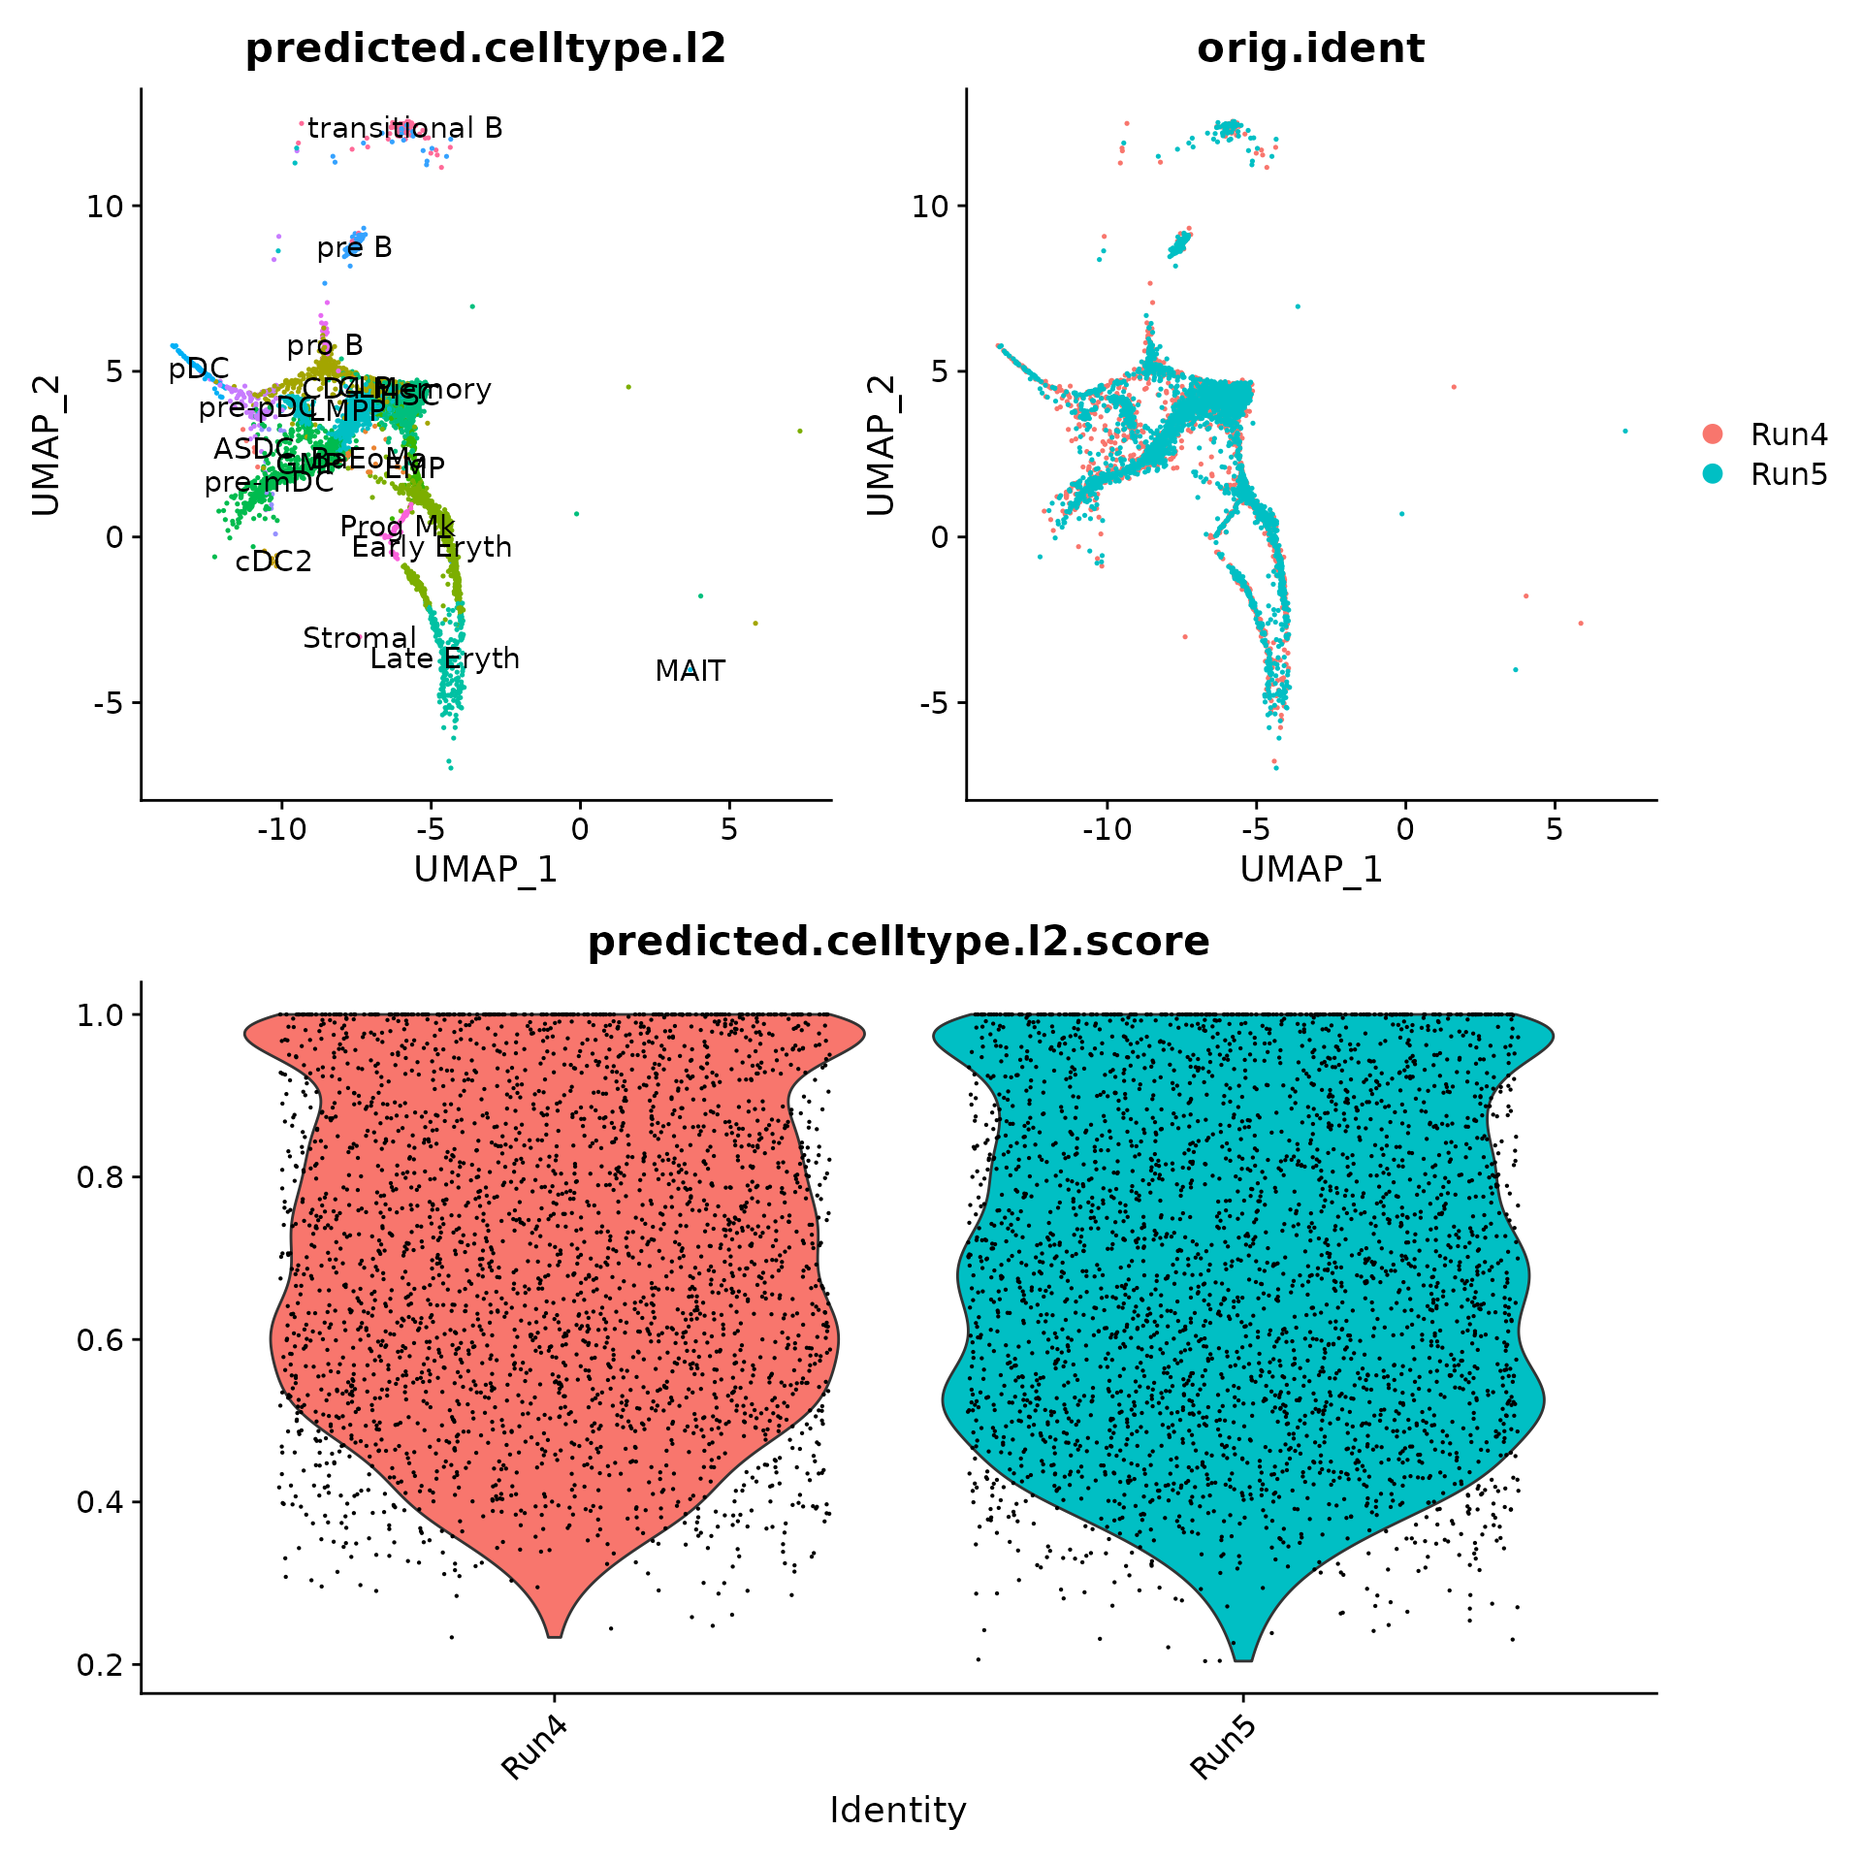
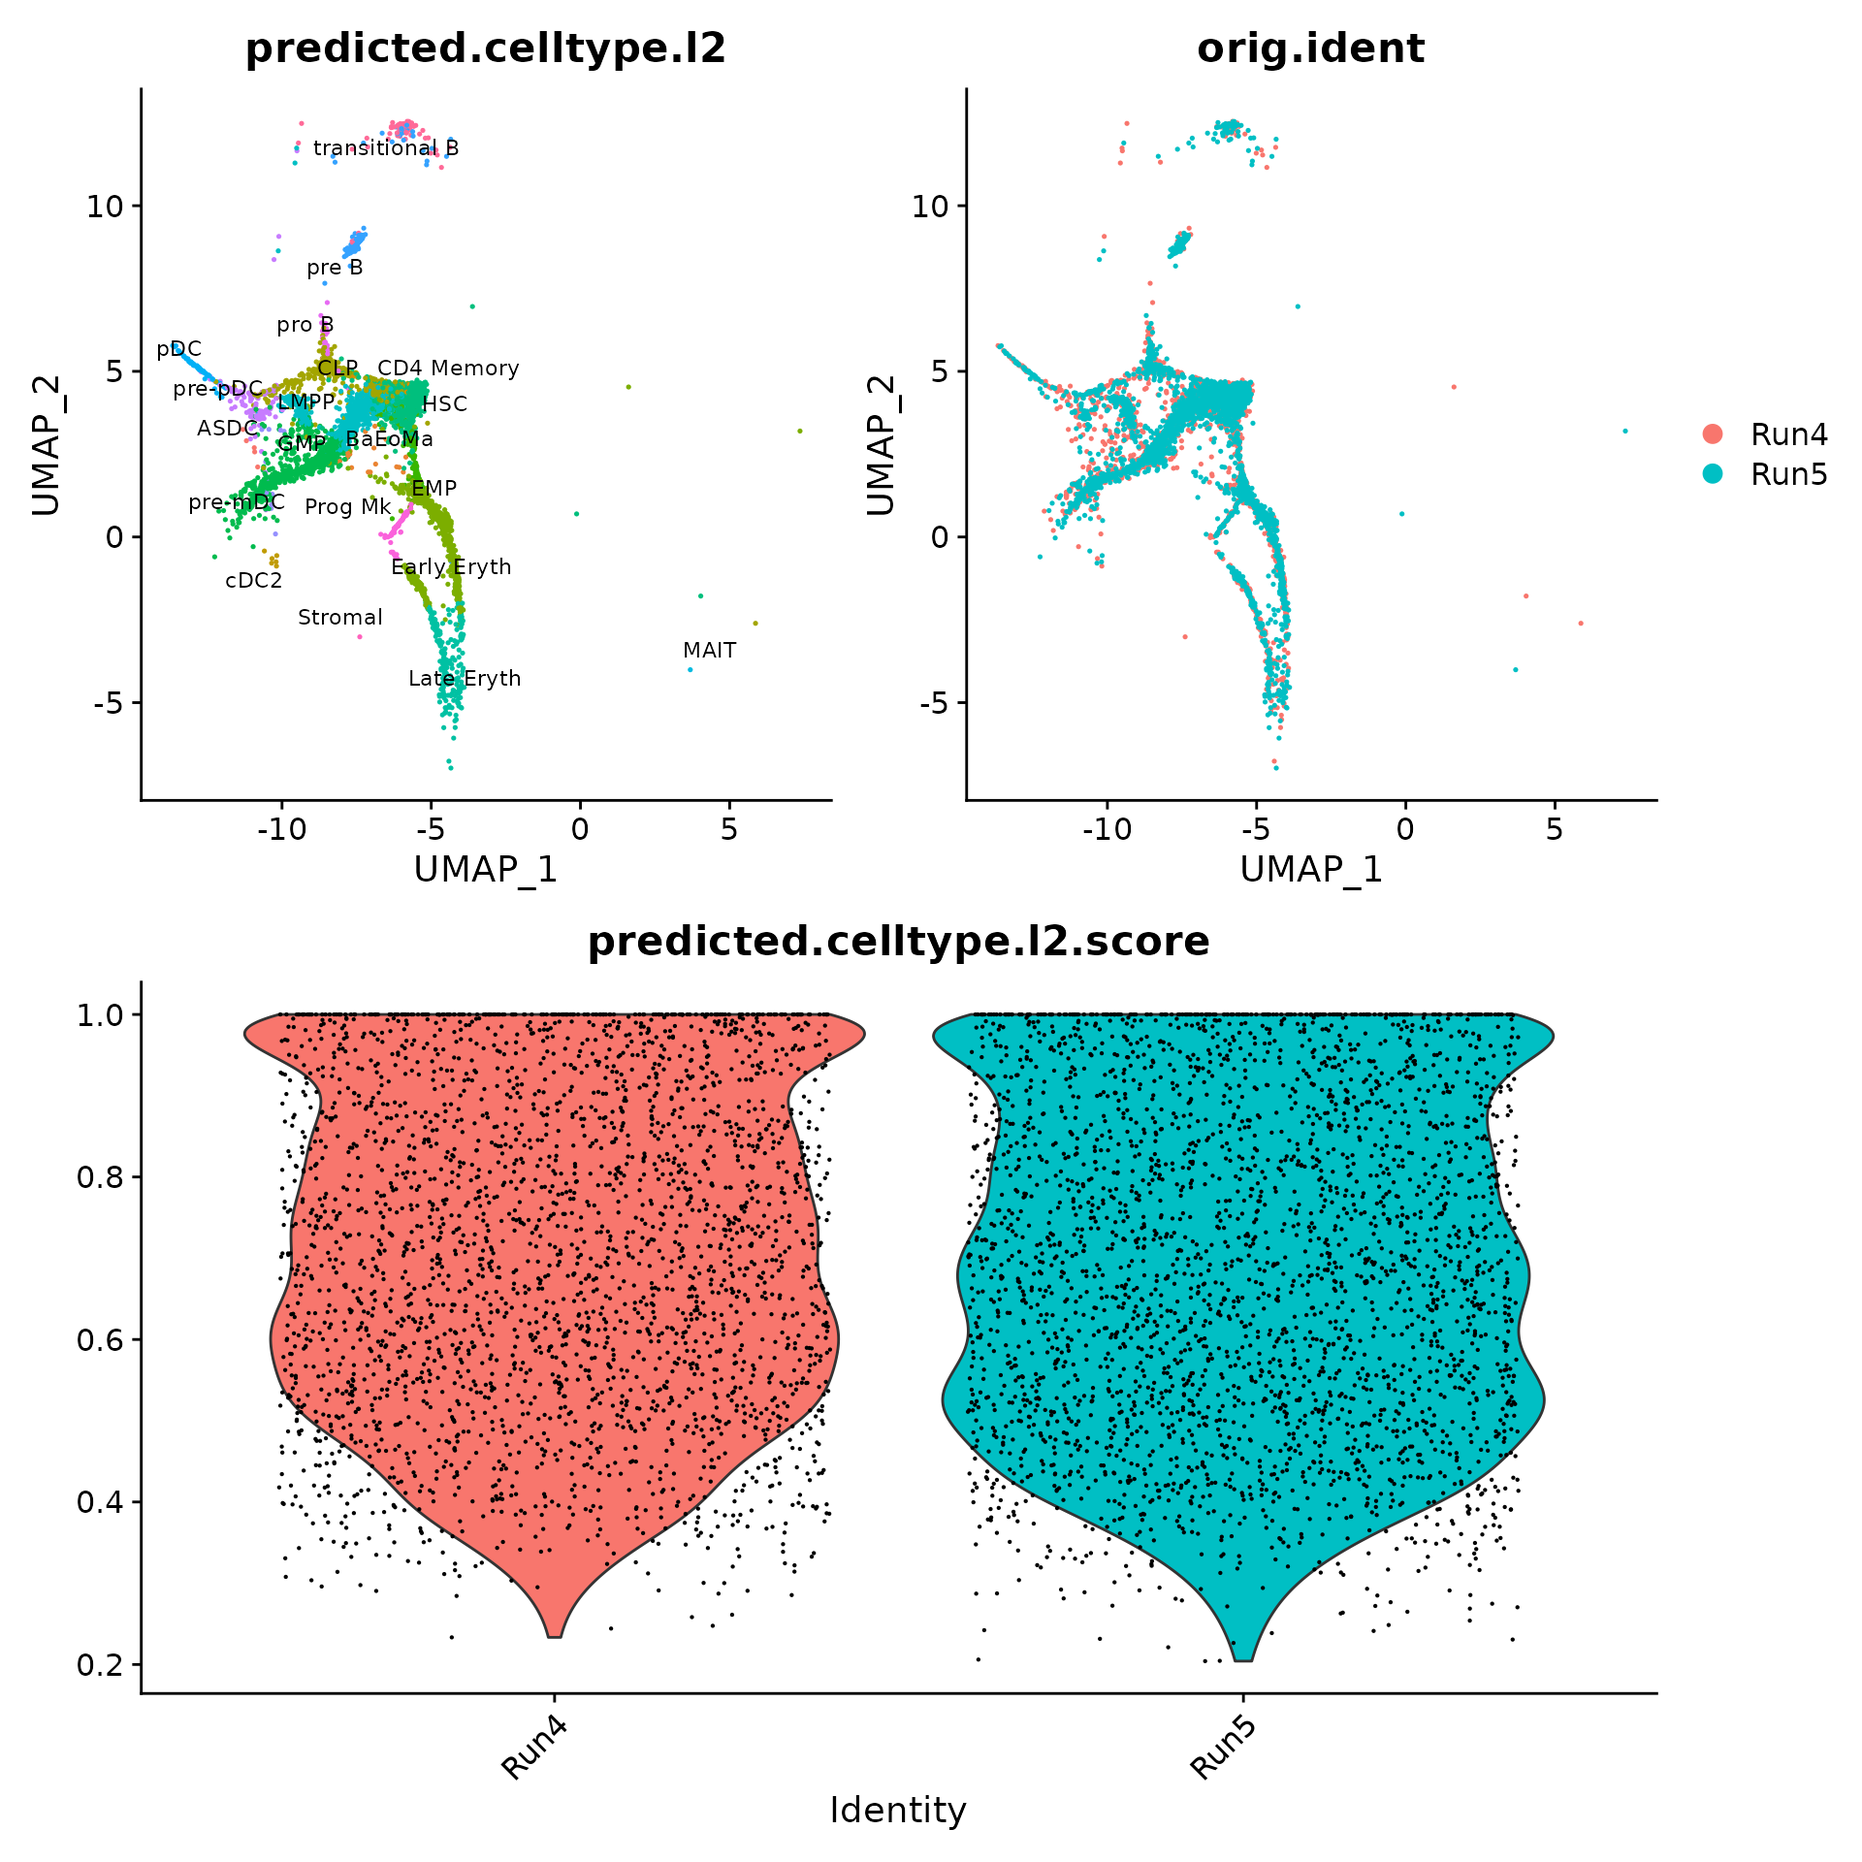
update run azimuth tutorial

Changed region(s): [[0.0938, 0.125, 0.2812, 0.375], [0.1562, 0.0625, 0.25, 0.0938], [0.3438, 0.3438, 0.4062, 0.375]]

diff --git a/docs/articles/run_azimuth_tutorial.html b/docs/articles/run_azimuth_tutorial.html
@@ -33,7 +33,7 @@
       </button>
       <span class="navbar-brand">
         <a class="navbar-link" href="../index.html">Azimuth</a>
-        <span class="version label label-default" data-toggle="tooltip" data-placement="bottom" title="">0.4.5</span>
+        <span class="version label label-default" data-toggle="tooltip" data-placement="bottom" title="">0.4.5.9000</span>
       </span>
     </div>
 
@@ -80,7 +80,7 @@
     <div class="page-header toc-ignore">
       <h1 data-toc-skip>Azimuth annotation</h1>
             
-            <h4 data-toc-skip class="date">Compiled: May 01, 2022</h4>
+            <h4 data-toc-skip class="date">Compiled: May 10, 2022</h4>
       
       <small class="dont-index">Source: <a href="https://github.com/satijalab/azimuth/blob/HEAD/vignettes/run_azimuth_tutorial.Rmd" class="external-link"><code>vignettes/run_azimuth_tutorial.Rmd</code></a></small>
       <div class="hidden name"><code>run_azimuth_tutorial.Rmd</code></div>
@@ -187,7 +187,8 @@
 <code class="sourceCode R"><span class="va">bm</span> <span class="op">&lt;-</span> <span class="fu"><a href="../reference/RunAzimuth.html">RunAzimuth</a></span><span class="op">(</span>query <span class="op">=</span> <span class="st">"human_cd34_bone_marrow.h5ad"</span>, reference <span class="op">=</span> <span class="st">"bonemarrowref"</span><span class="op">)</span></code></pre></div>
 <p>As expected, query cells map to CD34+ celltypes which represent a subset of celltypes present in the reference. Rare cells that map to differentiated cell populations (i.e. CD4 memory), map with low prediction scores. Reference-mapping also harmonizes two separate runs.</p>
 <div class="sourceCode" id="cb10"><pre class="downlit sourceCode r">
-<code class="sourceCode R"><span class="va">p1</span> <span class="op">&lt;-</span> <span class="fu"><a href="https://satijalab.org/seurat/reference/DimPlot.html" class="external-link">DimPlot</a></span><span class="op">(</span><span class="va">bm</span>, group.by <span class="op">=</span> <span class="st">"predicted.celltype.l2"</span>, label <span class="op">=</span> <span class="cn">TRUE</span><span class="op">)</span> <span class="op">+</span> <span class="fu"><a href="https://satijalab.org/seurat/reference/SeuratTheme.html" class="external-link">NoLegend</a></span><span class="op">(</span><span class="op">)</span>
+<code class="sourceCode R"><span class="va">p1</span> <span class="op">&lt;-</span> <span class="fu"><a href="https://satijalab.org/seurat/reference/DimPlot.html" class="external-link">DimPlot</a></span><span class="op">(</span><span class="va">bm</span>, group.by <span class="op">=</span> <span class="st">"predicted.celltype.l2"</span>, label <span class="op">=</span> <span class="cn">TRUE</span>, label.size <span class="op">=</span> <span class="fl">3</span>, repel <span class="op">=</span> <span class="cn">TRUE</span><span class="op">)</span> <span class="op">+</span>
+    <span class="fu"><a href="https://satijalab.org/seurat/reference/SeuratTheme.html" class="external-link">NoLegend</a></span><span class="op">(</span><span class="op">)</span>
 <span class="va">p2</span> <span class="op">&lt;-</span> <span class="fu"><a href="https://satijalab.org/seurat/reference/DimPlot.html" class="external-link">DimPlot</a></span><span class="op">(</span><span class="va">bm</span>, group.by <span class="op">=</span> <span class="st">"orig.ident"</span><span class="op">)</span>
 <span class="fu"><a href="https://rdrr.io/r/base/sort.html" class="external-link">sort</a></span><span class="op">(</span><span class="fu"><a href="https://rdrr.io/r/base/table.html" class="external-link">table</a></span><span class="op">(</span><span class="va">bm</span><span class="op">$</span><span class="va">predicted.celltype.l2</span><span class="op">)</span>, decreasing <span class="op">=</span> <span class="cn">TRUE</span><span class="op">)</span></code></pre></div>
 <pre><code><span class="co">## </span>
@@ -237,56 +238,58 @@
 <span class="co">##  [5] lungref.SeuratData_1.0.0       kidneyref.SeuratData_1.0.0    </span>
 <span class="co">##  [7] bonemarrowref.SeuratData_1.0.0 SeuratData_0.2.2              </span>
 <span class="co">##  [9] Azimuth_0.4.5                  shinyBS_0.61.1                </span>
-<span class="co">## [11] SeuratObject_4.0.4             Seurat_4.1.0                  </span>
+<span class="co">## [11] sp_1.4-7                       SeuratObject_4.1.0            </span>
+<span class="co">## [13] Seurat_4.1.1                  </span>
 <span class="co">## </span>
 <span class="co">## loaded via a namespace (and not attached):</span>
 <span class="co">##   [1] systemfonts_1.0.4     plyr_1.8.7            igraph_1.3.1         </span>
 <span class="co">##   [4] lazyeval_0.2.2        shinydashboard_0.7.2  splines_4.1.3        </span>
-<span class="co">##   [7] listenv_0.8.0         scattermore_0.8       ggplot2_3.3.5        </span>
+<span class="co">##   [7] listenv_0.8.0         scattermore_0.8       ggplot2_3.3.6        </span>
 <span class="co">##  [10] digest_0.6.29         htmltools_0.5.2       fansi_1.0.3          </span>
 <span class="co">##  [13] magrittr_2.0.3        memoise_2.0.1         googlesheets4_1.0.0  </span>
 <span class="co">##  [16] tensor_1.5            cluster_2.1.3         ROCR_1.0-11          </span>
-<span class="co">##  [19] globals_0.14.0        matrixStats_0.62.0    pkgdown_2.0.3        </span>
+<span class="co">##  [19] globals_0.15.0        matrixStats_0.62.0    pkgdown_2.0.3        </span>
 <span class="co">##  [22] spatstat.sparse_2.1-1 colorspace_2.0-3      rappdirs_0.3.3       </span>
 <span class="co">##  [25] ggrepel_0.9.1         textshaping_0.3.6     xfun_0.30            </span>
-<span class="co">##  [28] dplyr_1.0.8           crayon_1.5.1          jsonlite_1.8.0       </span>
-<span class="co">##  [31] spatstat.data_2.2-0   survival_3.3-1        zoo_1.8-10           </span>
-<span class="co">##  [34] glue_1.6.2            polyclip_1.10-0       gargle_1.2.0         </span>
-<span class="co">##  [37] gtable_0.3.0          leiden_0.3.9          future.apply_1.8.1   </span>
-<span class="co">##  [40] abind_1.4-5           scales_1.2.0          DBI_1.1.2            </span>
-<span class="co">##  [43] spatstat.random_2.2-0 miniUI_0.1.1.1        Rcpp_1.0.8.3         </span>
-<span class="co">##  [46] viridisLite_0.4.0     xtable_1.8-4          reticulate_1.24      </span>
-<span class="co">##  [49] spatstat.core_2.4-2   bit_4.0.4             DT_0.22              </span>
-<span class="co">##  [52] htmlwidgets_1.5.4     httr_1.4.2            RColorBrewer_1.1-3   </span>
-<span class="co">##  [55] ellipsis_0.3.2        ica_1.0-2             farver_2.1.0         </span>
-<span class="co">##  [58] pkgconfig_2.0.3       sass_0.4.1            uwot_0.1.11          </span>
-<span class="co">##  [61] deldir_1.0-6          utf8_1.2.2            labeling_0.4.2       </span>
-<span class="co">##  [64] tidyselect_1.1.2      rlang_1.0.2           reshape2_1.4.4       </span>
-<span class="co">##  [67] later_1.3.0           cellranger_1.1.0      munsell_0.5.0        </span>
-<span class="co">##  [70] tools_4.1.3           cachem_1.0.6          cli_3.3.0            </span>
-<span class="co">##  [73] generics_0.1.2        ggridges_0.5.3        evaluate_0.15        </span>
-<span class="co">##  [76] stringr_1.4.0         fastmap_1.1.0         yaml_2.3.5           </span>
-<span class="co">##  [79] ragg_1.2.2            goftest_1.2-3         bit64_4.0.5          </span>
-<span class="co">##  [82] knitr_1.38            fs_1.5.2              fitdistrplus_1.1-8   </span>
-<span class="co">##  [85] purrr_0.3.4           RANN_2.6.1            pbapply_1.5-0        </span>
-<span class="co">##  [88] future_1.25.0         nlme_3.1-157          mime_0.12            </span>
-<span class="co">##  [91] formatR_1.12          hdf5r_1.3.5           compiler_4.1.3       </span>
-<span class="co">##  [94] rstudioapi_0.13       curl_4.3.2            plotly_4.10.0        </span>
-<span class="co">##  [97] png_0.1-7             spatstat.utils_2.3-0  tibble_3.1.6         </span>
-<span class="co">## [100] bslib_0.3.1           stringi_1.7.6         highr_0.9            </span>
-<span class="co">## [103] desc_1.4.1            lattice_0.20-45       Matrix_1.4-1         </span>
-<span class="co">## [106] SeuratDisk_0.0.0.9020 shinyjs_2.1.0         vctrs_0.4.1          </span>
-<span class="co">## [109] pillar_1.7.0          lifecycle_1.0.1       BiocManager_1.30.16  </span>
-<span class="co">## [112] spatstat.geom_2.4-0   lmtest_0.9-40         jquerylib_0.1.4      </span>
-<span class="co">## [115] RcppAnnoy_0.0.19      data.table_1.14.2     cowplot_1.1.1        </span>
-<span class="co">## [118] irlba_2.3.5           httpuv_1.6.5          R6_2.5.1             </span>
-<span class="co">## [121] promises_1.2.0.1      renv_0.15.4           KernSmooth_2.23-20   </span>
-<span class="co">## [124] gridExtra_2.3         parallelly_1.31.1     codetools_0.2-18     </span>
-<span class="co">## [127] MASS_7.3-56           assertthat_0.2.1      rprojroot_2.0.3      </span>
-<span class="co">## [130] withr_2.5.0           presto_1.0.0          sctransform_0.3.3    </span>
-<span class="co">## [133] mgcv_1.8-40           parallel_4.1.3        grid_4.1.3           </span>
-<span class="co">## [136] rpart_4.1.16          tidyr_1.2.0           rmarkdown_2.13       </span>
-<span class="co">## [139] googledrive_2.0.0     Rtsne_0.16            shiny_1.7.1</span></code></pre>
+<span class="co">##  [28] dplyr_1.0.9           crayon_1.5.1          jsonlite_1.8.0       </span>
+<span class="co">##  [31] progressr_0.10.0      spatstat.data_2.2-0   survival_3.3-1       </span>
+<span class="co">##  [34] zoo_1.8-10            glue_1.6.2            polyclip_1.10-0      </span>
+<span class="co">##  [37] gargle_1.2.0          gtable_0.3.0          leiden_0.4.2         </span>
+<span class="co">##  [40] future.apply_1.9.0    abind_1.4-5           scales_1.2.0         </span>
+<span class="co">##  [43] DBI_1.1.2             spatstat.random_2.2-0 miniUI_0.1.1.1       </span>
+<span class="co">##  [46] Rcpp_1.0.8.3          viridisLite_0.4.0     xtable_1.8-4         </span>
+<span class="co">##  [49] reticulate_1.24       spatstat.core_2.4-2   bit_4.0.4            </span>
+<span class="co">##  [52] DT_0.23               htmlwidgets_1.5.4     httr_1.4.3           </span>
+<span class="co">##  [55] RColorBrewer_1.1-3    ellipsis_0.3.2        ica_1.0-2            </span>
+<span class="co">##  [58] farver_2.1.0          pkgconfig_2.0.3       sass_0.4.1           </span>
+<span class="co">##  [61] uwot_0.1.11           deldir_1.0-6          utf8_1.2.2           </span>
+<span class="co">##  [64] labeling_0.4.2        tidyselect_1.1.2      rlang_1.0.2          </span>
+<span class="co">##  [67] reshape2_1.4.4        later_1.3.0           cellranger_1.1.0     </span>
+<span class="co">##  [70] munsell_0.5.0         tools_4.1.3           cachem_1.0.6         </span>
+<span class="co">##  [73] cli_3.3.0             generics_0.1.2        ggridges_0.5.3       </span>
+<span class="co">##  [76] evaluate_0.15         stringr_1.4.0         fastmap_1.1.0        </span>
+<span class="co">##  [79] yaml_2.3.5            ragg_1.2.2            goftest_1.2-3        </span>
+<span class="co">##  [82] bit64_4.0.5           knitr_1.38            fs_1.5.2             </span>
+<span class="co">##  [85] fitdistrplus_1.1-8    purrr_0.3.4           RANN_2.6.1           </span>
+<span class="co">##  [88] pbapply_1.5-0         future_1.25.0         nlme_3.1-157         </span>
+<span class="co">##  [91] mime_0.12             formatR_1.12          hdf5r_1.3.5          </span>
+<span class="co">##  [94] compiler_4.1.3        rstudioapi_0.13       curl_4.3.2           </span>
+<span class="co">##  [97] plotly_4.10.0         png_0.1-7             spatstat.utils_2.3-1 </span>
+<span class="co">## [100] tibble_3.1.7          bslib_0.3.1           stringi_1.7.6        </span>
+<span class="co">## [103] highr_0.9             desc_1.4.1            rgeos_0.5-9          </span>
+<span class="co">## [106] lattice_0.20-45       Matrix_1.4-1          SeuratDisk_0.0.0.9020</span>
+<span class="co">## [109] shinyjs_2.1.0         vctrs_0.4.1           pillar_1.7.0         </span>
+<span class="co">## [112] lifecycle_1.0.1       BiocManager_1.30.16   spatstat.geom_2.4-0  </span>
+<span class="co">## [115] lmtest_0.9-40         jquerylib_0.1.4       RcppAnnoy_0.0.19     </span>
+<span class="co">## [118] data.table_1.14.2     cowplot_1.1.1         irlba_2.3.5          </span>
+<span class="co">## [121] httpuv_1.6.5          R6_2.5.1              promises_1.2.0.1     </span>
+<span class="co">## [124] renv_0.15.4           KernSmooth_2.23-20    gridExtra_2.3        </span>
+<span class="co">## [127] parallelly_1.31.1     codetools_0.2-18      MASS_7.3-56          </span>
+<span class="co">## [130] assertthat_0.2.1      rprojroot_2.0.3       withr_2.5.0          </span>
+<span class="co">## [133] presto_1.0.0          sctransform_0.3.3     mgcv_1.8-40          </span>
+<span class="co">## [136] parallel_4.1.3        grid_4.1.3            rpart_4.1.16         </span>
+<span class="co">## [139] tidyr_1.2.0           rmarkdown_2.13        googledrive_2.0.0    </span>
+<span class="co">## [142] Rtsne_0.16            shiny_1.7.1</span></code></pre>
 </details>
 </div>
 </div>
